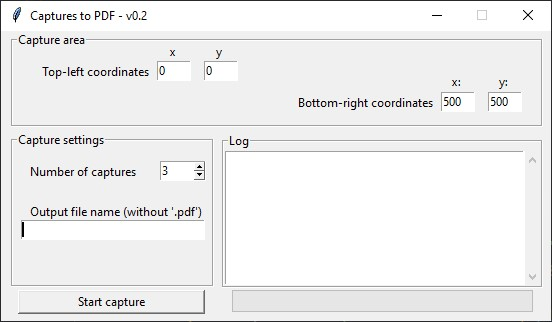
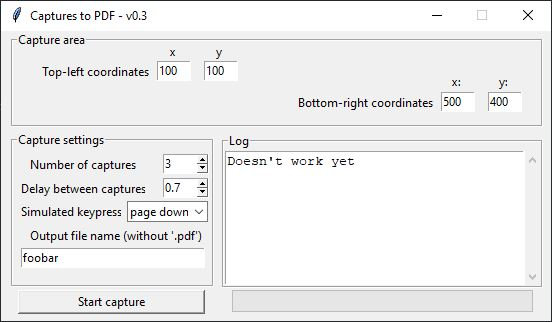
release(v0.3) feat: can now select the delay between captures feat: can now select the keypress to simulate between captures fix: removed unused imports

diff --git a/captures_to_pdf.py b/captures_to_pdf.py
@@ -5,17 +5,14 @@ from tkinter import scrolledtext
 from tkinter import messagebox
 
 # imports needed for image acquisition and pdf creation
-from PIL import ImageGrab, Image
+from PIL import ImageGrab
 from time import sleep
 import keyboard
 
 # other
 import json
-import shutil
-from zipfile import ZipFile
 from pathlib import Path
 import os
-import sys
 from threading import Thread
 
 ### FUNCTIONS ###
@@ -33,11 +30,18 @@ def runCapture():
     if upl_x < 0 or upl_y < 0 or botr_x < 0 or botr_y < 0:
         messagebox.showerror('Invalid value', 'Coordinates can\'t be < 0')
         return
-    screenshot_num = var.get()
+    screenshot_num = screenshots_n_var.get()
     if screenshot_num < 1:
         messagebox.showerror(
             'Invalid value', 'Screenshots number can\'t be < 1')
         return
+    delay = float(delay_var.get())
+    if delay < 0.1 or delay > 10:
+        messagebox.showerror(
+            'Invalid value', 'Delay can\'t be < 0.1 or > 10')
+        return
+    key = keyCombo.get()
+    keyIndex = keyCombo.current()
     filename = outname_entry.get()
     filename = filename.replace('.pdf', '')
     if filename == '':
@@ -55,8 +59,8 @@ def runCapture():
         print('Taking image number ', i+1)
         im = ImageGrab.grab(bbox=(upl_x, upl_y, botr_x, botr_y))
         imagelist.append(im)
-        keyboard.press_and_release('page down')
-        sleep(1)
+        keyboard.press_and_release(key)
+        sleep(delay)
     print('Saving PDF to', get_abs_path
           (filename.rstrip()+'.pdf'))
     imagelist[0].save(get_abs_path
@@ -71,6 +75,8 @@ def runCapture():
     last['botright_x_entry'] = botr_x
     last['botright_y_entry'] = botr_y
     last['screnshot_num'] = screenshot_num
+    last['delay'] = delay
+    last['key'] = keyIndex
     with open(get_abs_path
               ('last_settings.json'), 'w') as json_file:
         json.dump(last, json_file)
@@ -88,7 +94,7 @@ if __name__ == "__main__":
     root = tk.Tk()
     root.geometry('550x290')
     root.resizable(0, 0)
-    root.title("Captures to PDF - v0.2")
+    root.title("Captures to PDF - v0.3")
 
     ### TOP FRAME ###
     frame1 = tk.LabelFrame(root, text="Capture area")
@@ -123,16 +129,40 @@ if __name__ == "__main__":
     ### LEFT FRAME ###
     frame2 = tk.LabelFrame(root, text="Capture settings")
     frame2.place(relx=0.018, rely=0.344, relheight=0.54, relwidth=0.37)
+
     tk.Label(frame2, text="Number of captures").place(
-        relx=0.049, rely=0.191, height=21, width=124, bordermode='ignore')
-    var = tk.IntVar()
-    tk.Spinbox(frame2, from_=1, to=1000, textvariable=var).place(
-        relx=0.734, rely=0.191, relheight=0.127, relwidth=0.227, bordermode='ignore')
+        relx=0.05, rely=0.15, height=21, width=124, bordermode='ignore')
+    screenshots_n_var = tk.IntVar()
+    tk.Spinbox(frame2, from_=1, to=1000, textvariable=screenshots_n_var).place(
+        relx=0.75, rely=0.15, relheight=0.127, relwidth=0.227, bordermode='ignore')
+
+    tk.Label(frame2, text="Delay between captures").place(
+        relx=0.05, rely=0.30, height=21, width=124, bordermode='ignore')
+    delay_var = tk.StringVar()
+    tk.Spinbox(frame2, from_=0.1, to=10, textvariable=delay_var, increment=0.1).place(
+        relx=0.75, rely=0.30, relheight=0.127, relwidth=0.227, bordermode='ignore')
+
+    tk.Label(frame2, text="Simulated keypress").place(
+        relx=0.05, rely=0.45, height=21, width=100, bordermode='ignore')
+    keyCombo = ttk.Combobox(frame2,
+                 values=[
+                     "up",
+                     "down",
+                     "left",
+                     "right",
+                     "page up",
+                     "page down",
+                     "space",
+                     "enter"],
+                 state="readonly")
+    keyCombo.place(relx=0.57, rely=0.45, height=21,
+                                         relwidth=0.4, bordermode='ignore')
+    keyCombo.current(0)
 
     tk.Label(frame2, text="Output file name (without '.pdf')").place(
-        relx=0.049, rely=0.446, height=21, width=190, bordermode='ignore')
+        relx=0.049, rely=0.60, height=21, width=190, bordermode='ignore')
     outname_entry = tk.Entry(frame2)
-    outname_entry.place(relx=0.049, rely=0.573, height=20,
+    outname_entry.place(relx=0.049, rely=0.75, height=20,
                         relwidth=0.906, bordermode='ignore')
 
     ### RIGHT FRAME ###
@@ -163,6 +193,12 @@ if __name__ == "__main__":
         if 'botright_y_entry' in last:
             botright_y_entry.insert(tk.END, last['botright_y_entry'])
         if 'screnshot_num' in last:
-            var.set(last['screnshot_num'])
+            screenshots_n_var.set(last['screnshot_num'])
+        if 'delay' in last:
+            delay_var.set(last['delay'])
+        if 'key' in last:
+            keyCombo.current(last['key'])
 
+    # OTHER
+    insertIntoLog("Doesn't work yet")
     root.mainloop()

diff --git a/README.md b/README.md
@@ -1,7 +1,5 @@
 # captures-to-pdf
 
-Little Python program to automate the capture of a sequence of screenshots and generate a unique output PDF.
-
-**Please note:** _as of v0.2, the program simulates the PageDown keypress between each capture. In future releases it will be possible to select which keypress has to be simulated, plus the delay (currently 1 second)_
+Little Python program to automatically capture a sequence of screenshots and generate a unique output PDF.
 
 ![Screenshot](docs/images/program_screenshot.jpg)
